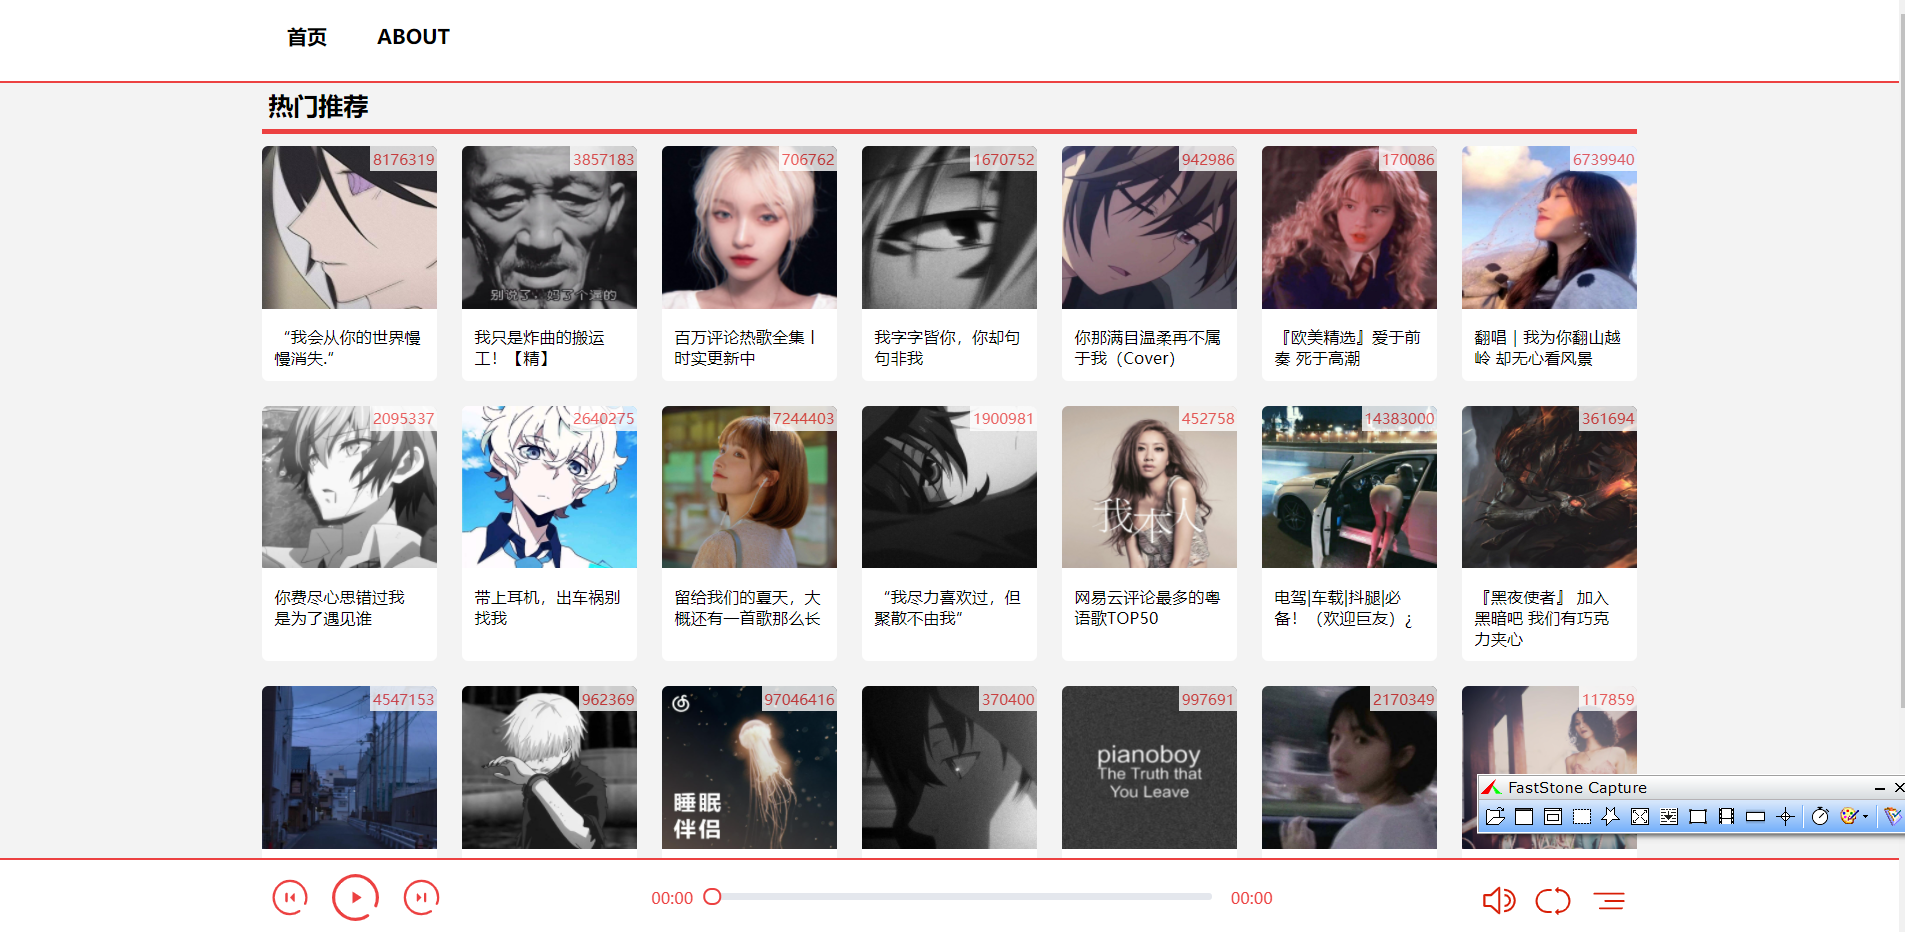
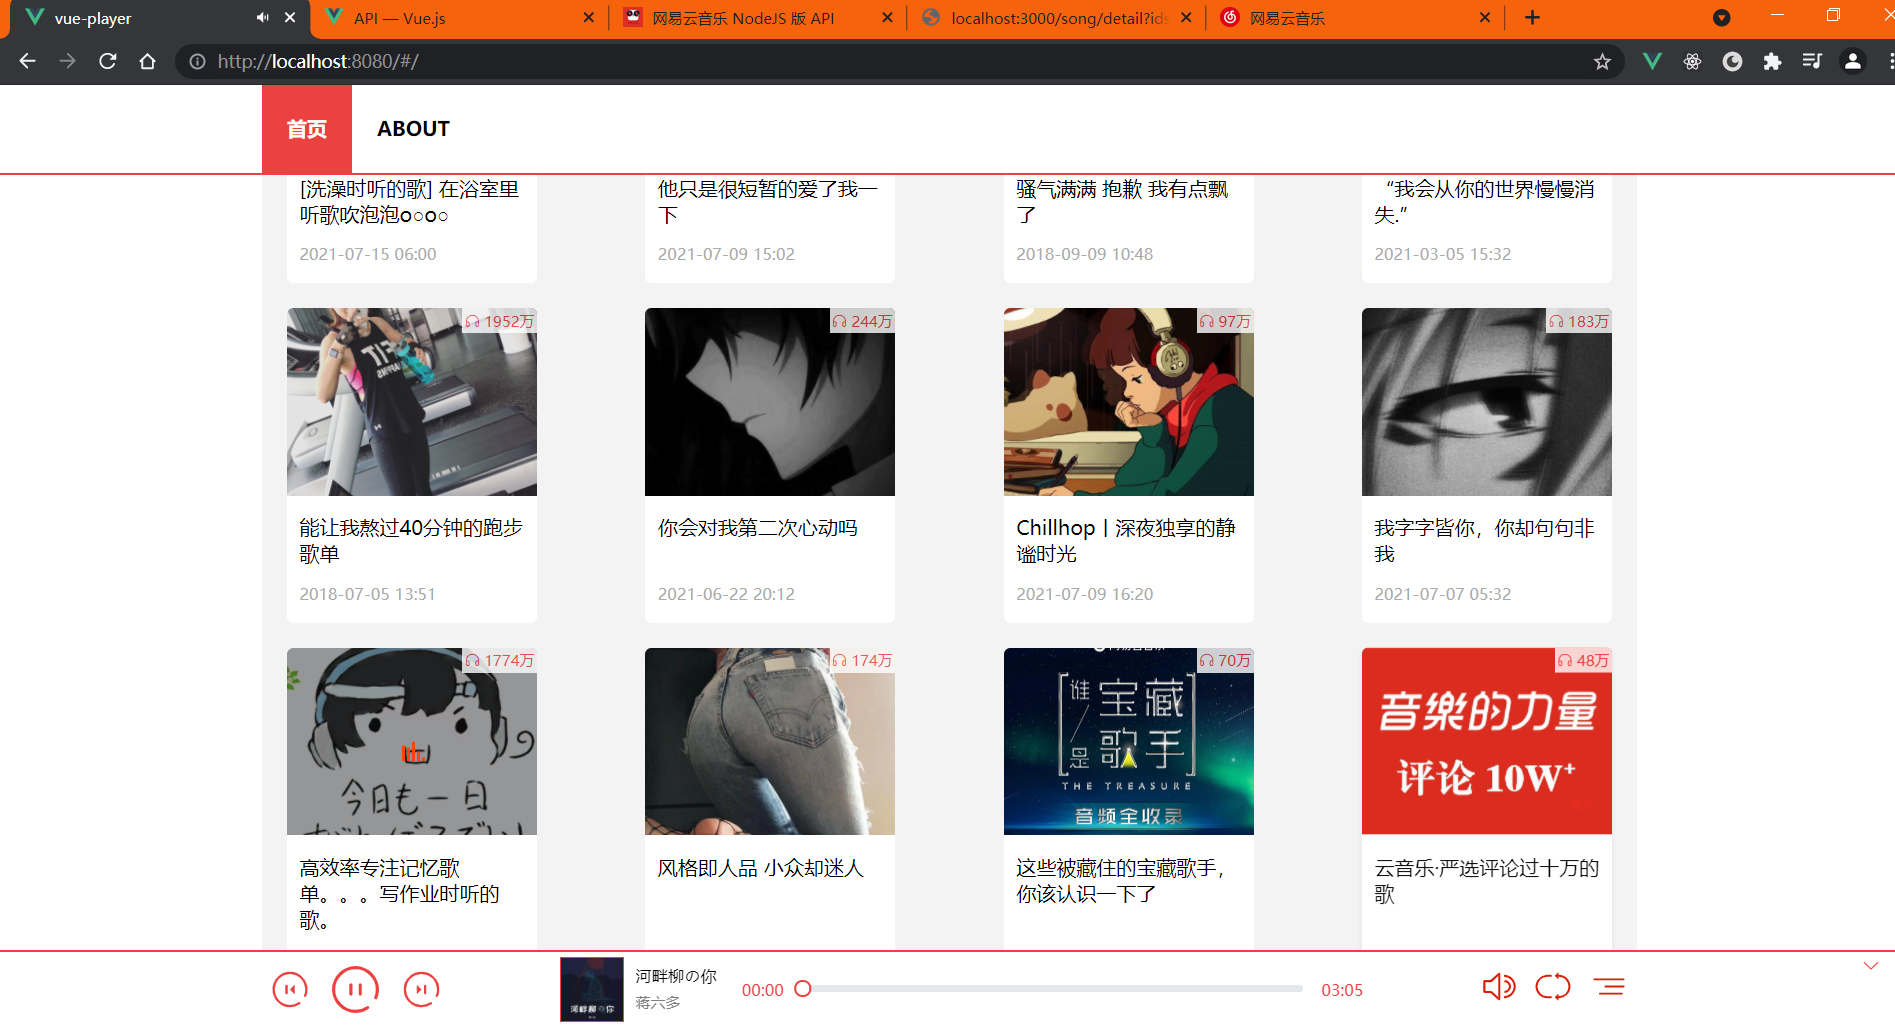
add music description

diff --git a/src/components/PlayerBar.vue b/src/components/PlayerBar.vue
@@ -23,9 +23,15 @@
       <!-- 中间 -->
       <div class="middle">
         <div class="music-desc">
-          <img class="cover" :src="cover" />
-          <div class="name">{{ name }}</div>
-          <div class="singer">{{ singer }}</div>
+          <el-image class="cover" :src="cover" fit="cover" lazy>
+            <div slot="error" style="height: inherit">
+              <i class="el-icon-picture-outline"></i>
+            </div>
+          </el-image>
+          <div class="info">
+            <div class="name">{{ name }}</div>
+            <div class="singer">{{ singer }}</div>
+          </div>
         </div>
 
         <span class="current-time">{{ secondToMinute(currentTime) }}</span>
@@ -133,21 +139,21 @@ export default class PlayerBar extends Vue {
   private currentTime: number = 0;
   private endTime: number = 0;
 
-  singer: string = "";
-  name: string = "";
+  singer: string = "未知";
+  name: string = "未知";
   cover: string = "";
 
   @Watch("$store.state.currentPlayIndex")
   @Watch("$store.state.playList")
   public watchCurrentPlayIndex(newValue: number | Music[]) {
+    this.currentTime = 0; //改变显示信息
+
     if (typeof newValue !== "number") {
       return;
     }
     const tPlayState: StateInterface = this.$store.state;
 
-    this.currentTime = 0; //改变显示信息
-
-    this.cover = tPlayState.playList[newValue].cover ?? "未知";
+    this.cover = tPlayState.playList[newValue].picUrl ?? "";
     this.name = tPlayState.playList[newValue].name;
     this.singer = tPlayState.playList[newValue].singer ?? "未知";
 
@@ -159,16 +165,14 @@ export default class PlayerBar extends Vue {
     const tPlayState: StateInterface = this.$store.state;
 
     this.volume = 100;
-    if (tPlayState.music.src) {
-      //当持续时间改变时
-      tPlayState.music.addEventListener("durationchange", () => {
-        this.endTime = tPlayState.music.duration;
-      });
+    //当持续时间改变时
+    tPlayState.music.addEventListener("durationchange", () => {
+      this.endTime = tPlayState.music.duration;
+    });
 
-      tPlayState.music.addEventListener("volumechange", () => {
-        this.volume = tPlayState.music.volume * 100;
-      });
-    }
+    tPlayState.music.addEventListener("volumechange", () => {
+      this.volume = tPlayState.music.volume * 100;
+    });
 
     //为进度条添加鼠标按下事件
     //循环获取Slider的dom节点
@@ -185,7 +189,7 @@ export default class PlayerBar extends Vue {
     //当按下空格时, 暂停音乐
     window.addEventListener("keypress", (event: KeyboardEvent) => {
       if (event.code === "Space") {
-        this.stateChange();
+        this.$store.commit(CHANGE_PLAY_STATE);
       }
     });
   }
@@ -245,6 +249,7 @@ export default class PlayerBar extends Vue {
         if (this.currentTime >= this.endTime) {
           this.progress = 0;
           this.currentTime = 0;
+          console.log("歌曲播放完毕");
           //根据播放模式自动选择下一首
           this.$store.getters.playMode.autoPlay(this.$store.state);
         }
@@ -311,12 +316,52 @@ $frame-height: 60px;
       line-height: $frame-height;
 
       .music-desc {
-        display: inline-block;
+        float: left;
+        font-size: 10px;
+        height: $frame-height;
+
         .cover {
+          outline: 1px solid $--color-primary;
+          height: 50px;
+          width: 50px;
+          float: left;
+          top: 5px;
         }
-        .name {
+
+        .info {
+          float: right;
+          width: 75px;
+          line-height: initial;
+          position: relative;
+          top: 10px;
+          padding: 0px 10px;
+
+          .name,
+          .singer {
+            text-align: left;
+            width: inherit;
+            overflow: hidden;
+            white-space: nowrap;
+            text-overflow: ellipsis;
+          }
+
+          .name {
+            font-size: 13px;
+            padding-bottom: 5px;
+          }
+
+          .singer {
+            font-size: 10px;
+            color: gray;
+          }
         }
-        .singer {
+
+        &::after {
+          display: block;
+          content: "";
+          clear: both;
+          width: 0px;
+          height: 0px;
         }
       }
 
@@ -442,7 +487,7 @@ $frame-height: 60px;
 
     .play {
       width: 60px;
-      height: 60px;
+      height: $frame-height;
     }
   }
 }

diff --git a/src/utils/ModelUtils.ts b/src/utils/ModelUtils.ts
@@ -24,17 +24,15 @@ export async function wrapperMusic(list: any[]) {
 
   for (const item of list) {
 
-    const al = await Api.getMusicDetail(item.id);
+    const musicDetail = await Api.getMusicDetail(item.id);
     const url = await Api.getMusicURL(item.id) as string;
 
     //chargeInfoList
     const music: Music = new Music(
-      item.id, al.name, url, al.picUrl
+      item.id, musicDetail.name, url, musicDetail.al.picUrl
     );
 
-    music.singer = item.singer;
-    music.cover = item.cover;
-    console.log(JSON.stringify(music));
+    music.singer = musicDetail.ar[0].name;
     tList.push(music);
   }
 

diff --git a/src/api/services/index.ts b/src/api/services/index.ts
@@ -25,12 +25,13 @@ async function getMusicList(id: number): Promise<Music[]> {
 }
 
 //获取歌曲详细信息
-async function getMusicDetail(ids: number): Promise<{ picUrl: string, name: string; }> {
+async function getMusicDetail(ids: number): Promise<{ ar: any, al: any; name: string; }> {
   const response: any = await axios.get('/song/detail', {
     params: { ids }
   });
 
-  return response.data.songs[0].al;
+  console.log(JSON.stringify(response.data));
+  return response.data.songs[0];
 }
 
 //获取推荐歌单

diff --git a/src/components/NavBar.vue b/src/components/NavBar.vue
@@ -14,9 +14,9 @@
 </template>
 
 <script lang="ts">
-// import { Component, Vue } from "vue-property-decorator";
-// @Component
-// export default class App extends Vue {}
+import { Component, Vue } from "vue-property-decorator";
+@Component
+export default class App extends Vue {}
 </script>
 
 <style lang="scss" scoped>

diff --git a/tests/unit/Api.spec.ts b/tests/unit/Api.spec.ts
@@ -21,7 +21,7 @@ describe('test music interface', () => {
 
 
   it('get recommend music', async () => {
-    let musics: Music[] = await Api.getRecommendMusic();
+    const musics: Music[] = await Api.getRecommendMusic();
     for (const item of musics) {
       console.log('music: ' + JSON.stringify(item));
     }

diff --git a/src/store/mutations.ts b/src/store/mutations.ts
@@ -24,6 +24,7 @@ const mutations: MutationTree<StateInterface> = {
     }
   },
   [PLAY_NEXT_MUSIC](s: StateInterface) {
+    console.log('下一首');
     s.currentPlayIndex++;
     if (s.currentPlayIndex >= s.playList.length) {
       s.currentPlayIndex = 0;

diff --git a/src/model/Music.ts b/src/model/Music.ts
@@ -7,10 +7,9 @@ class Music {
   id: number;
   url: string;
   name: string;
-  picUrl: string;
+  picUrl: string | null;
 
   album?: string;
-  cover?: string;
   singer?: string;
   playCount?: string;
   trackNumberUpdateTime?: string;

diff --git a/src/App.vue b/src/App.vue
@@ -1,7 +1,7 @@
 <template>
   <div id="app">
     <NavBar />
-    <keep-alive include="MusicListGroup">
+    <keep-alive include="Home">
       <router-view></router-view>
     </keep-alive>
     <PlayerBar />

diff --git a/tests/unit/BeanUtils.spec.ts b/tests/unit/BeanUtils.spec.ts
@@ -11,6 +11,6 @@ class Test1 {
 }
 
 it('test Bean decorator', () => {
-  let bean = BeanUtils.getBean('a');
+  const bean = BeanUtils.getBean('a');
   console.log(JSON.stringify(bean));
 });
